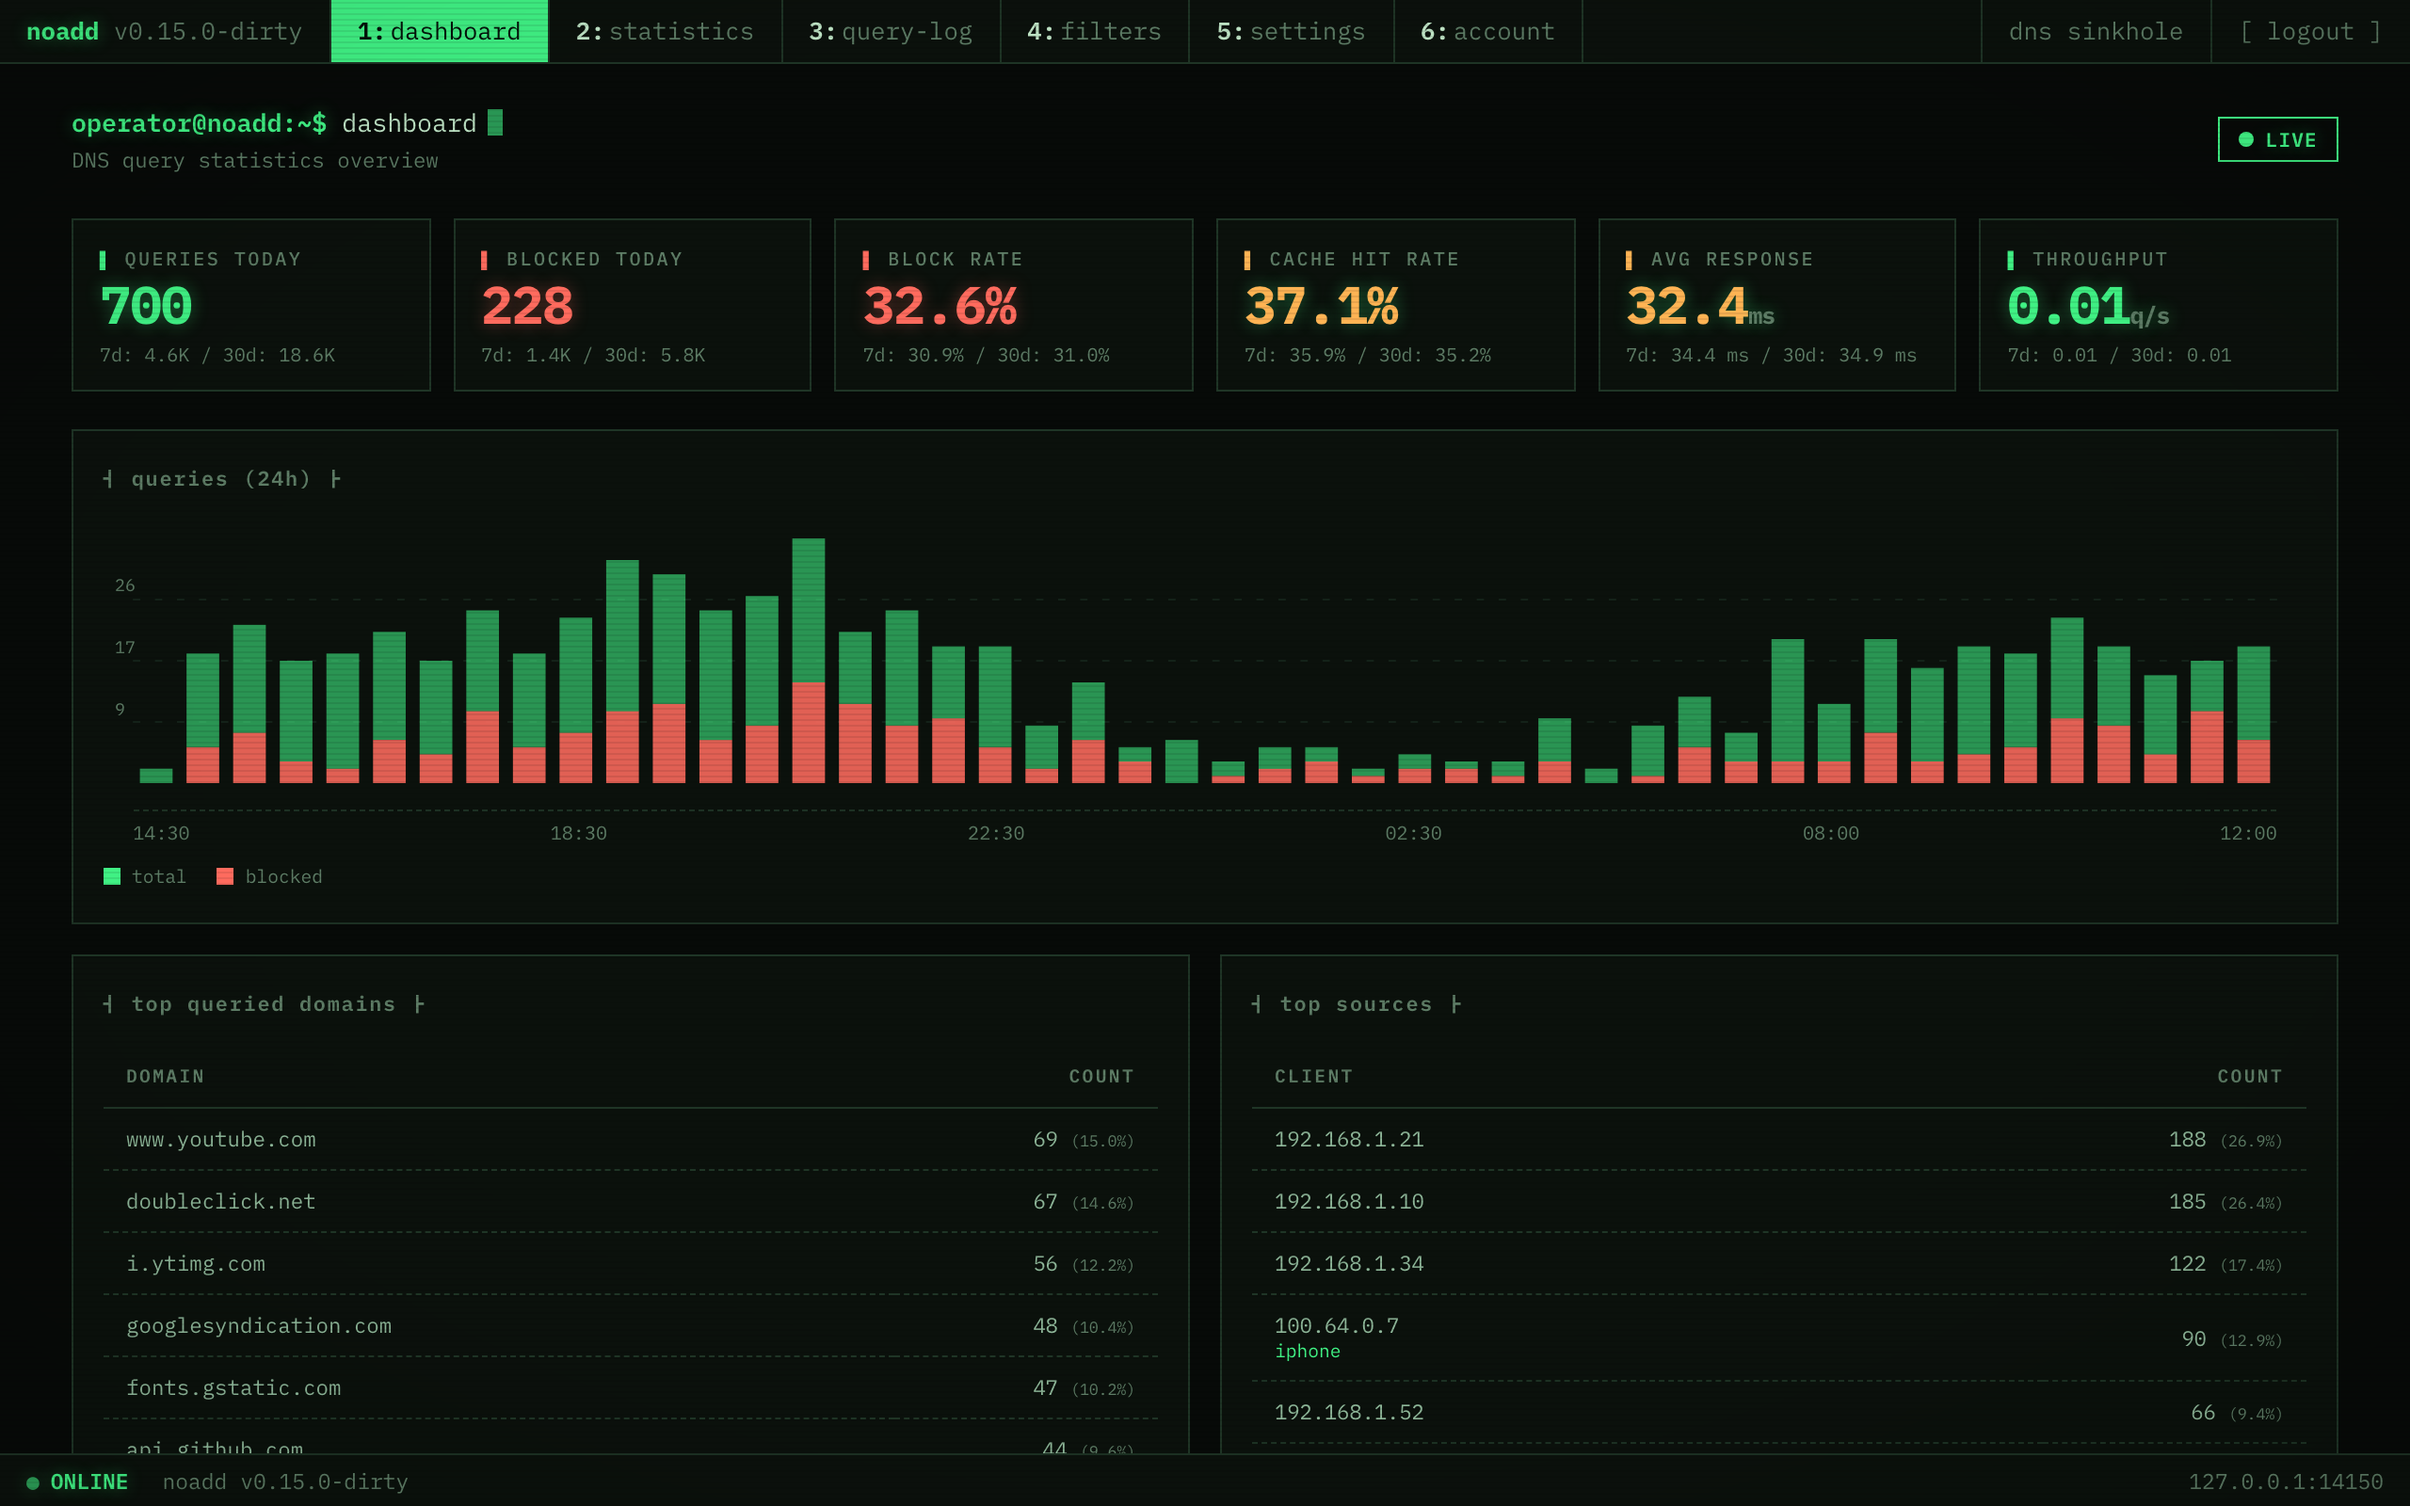
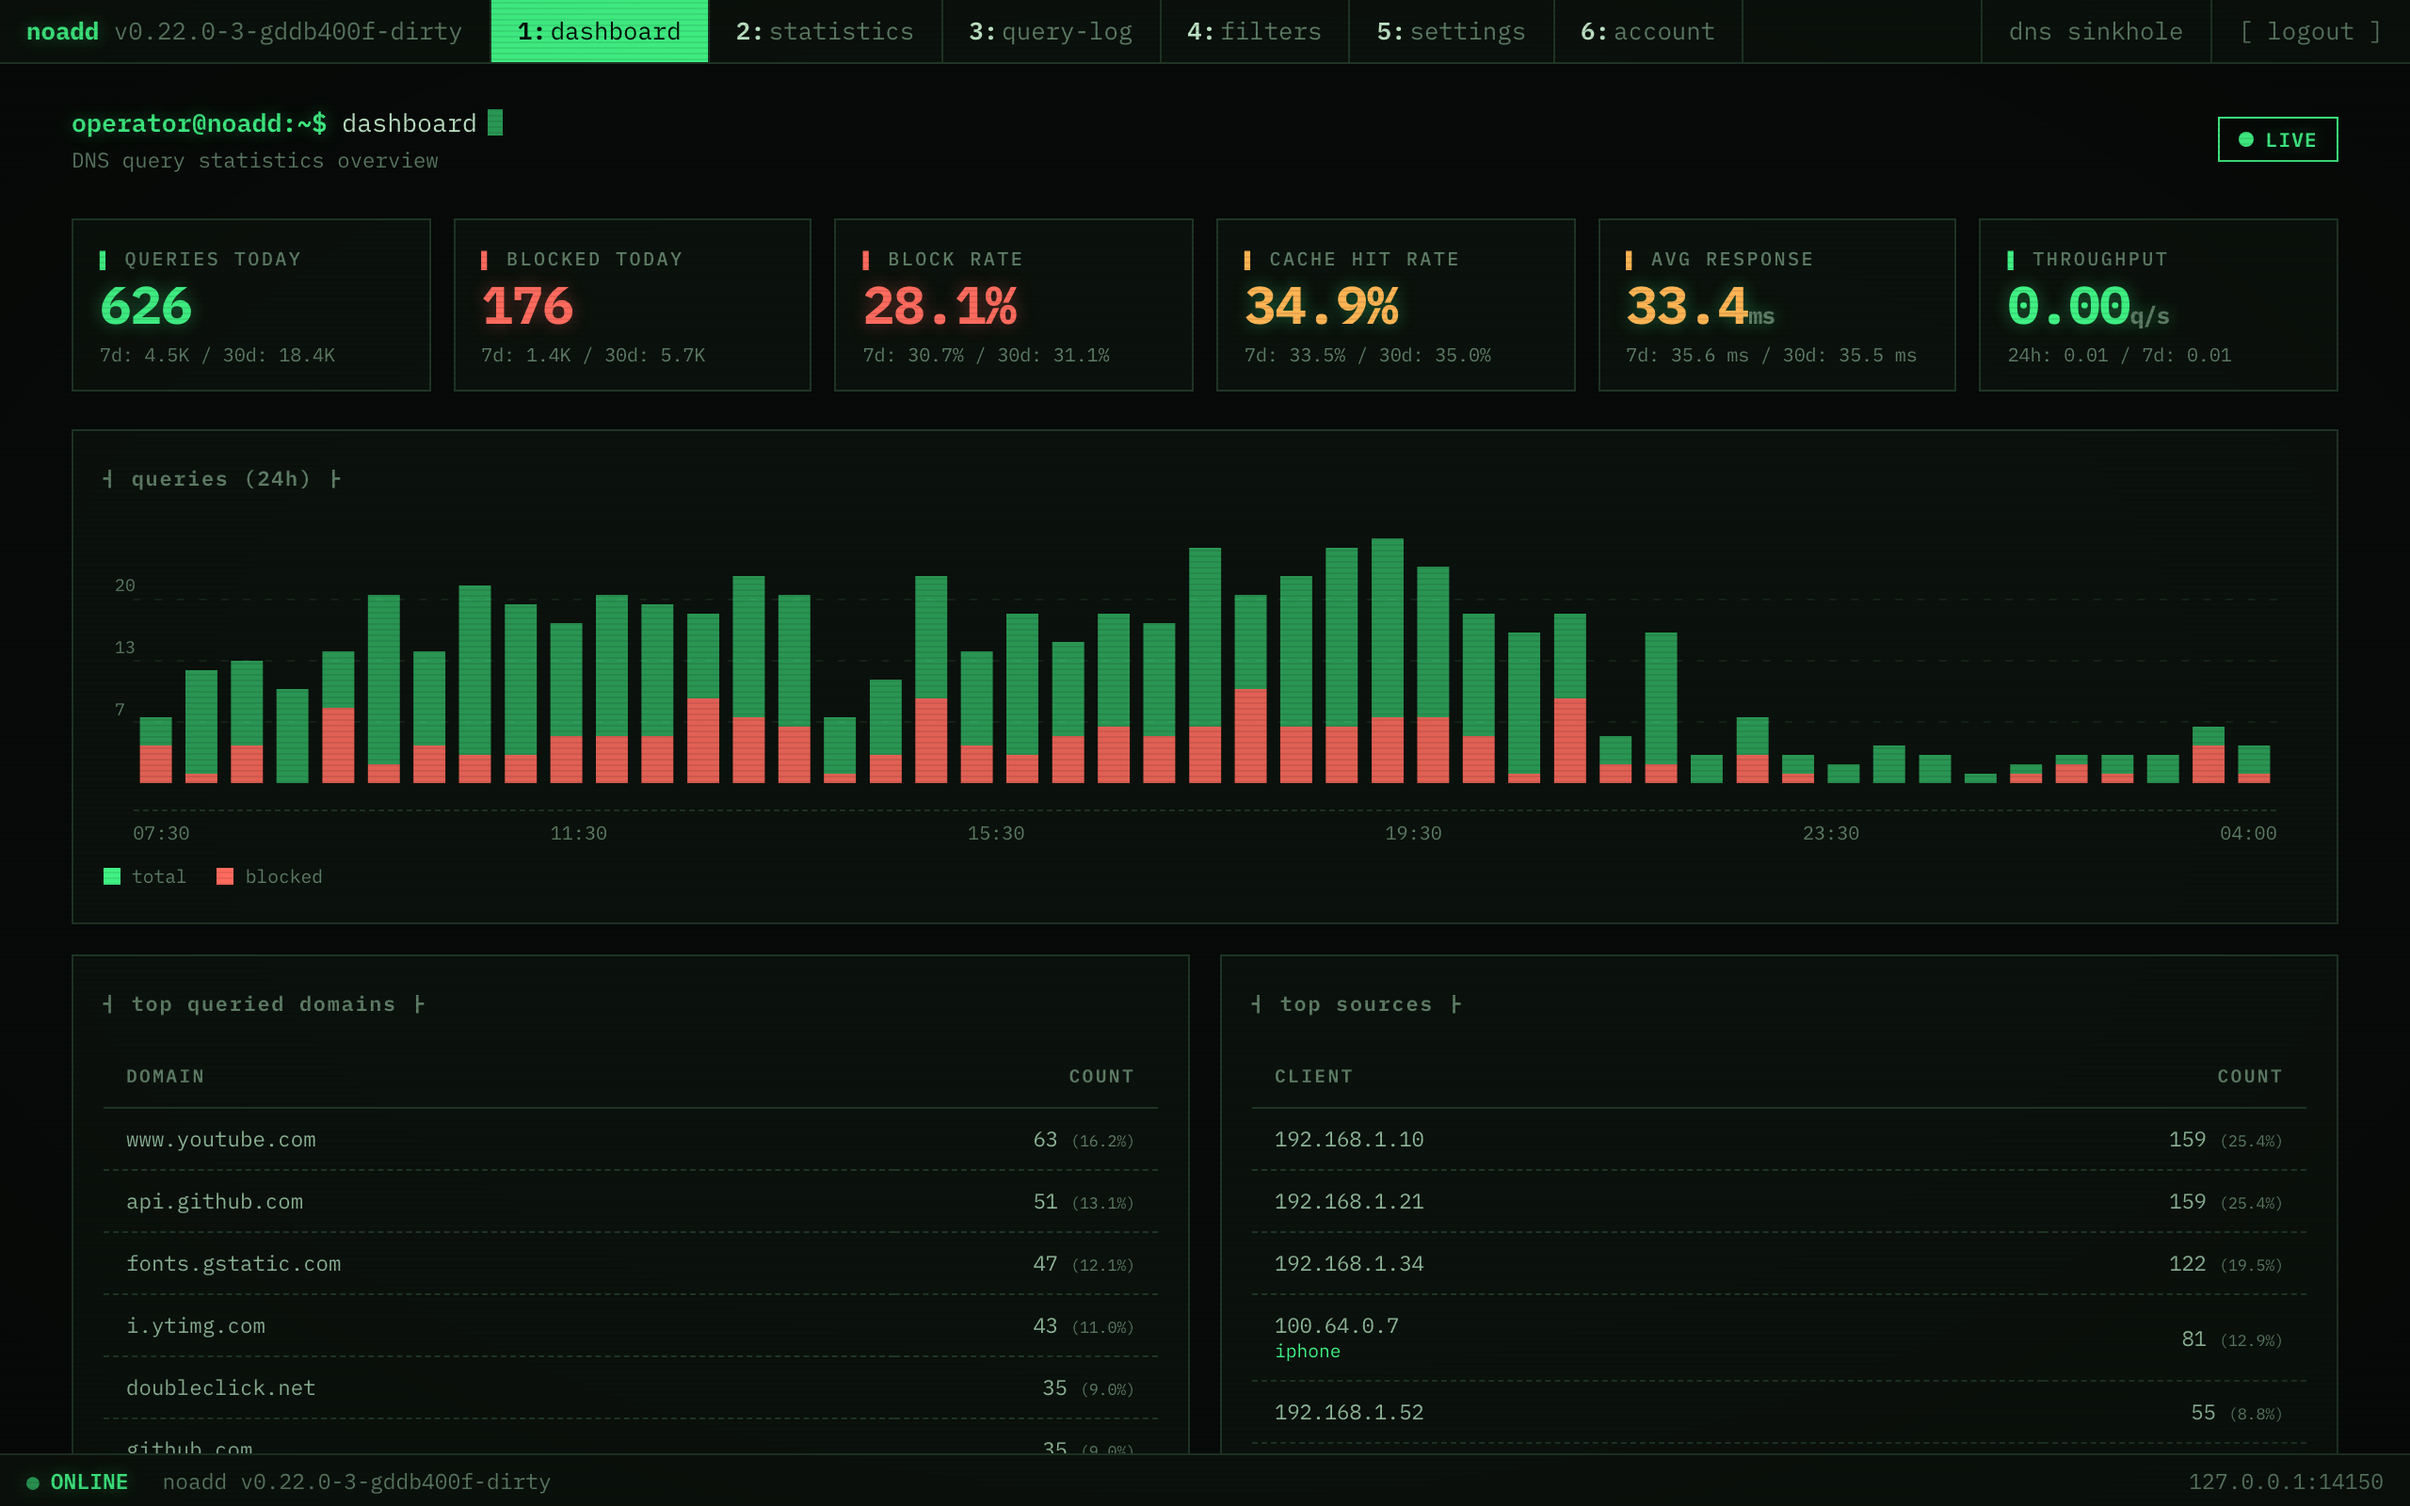
fix(admin-ui): show the live rate on the Throughput card
The card is labelled Throughput, is tinted like a live metric, and flashes
on change — all of which promise a current reading. It derived its value from
total_today / 86400, a 24-hour mean that a traffic spike cannot move. So the
flash animation only ever fired when the daily average drifted, and the card
answered a question nobody asked.

Meanwhile Summary.queries_1m — documented as "Queries handled in the last 60
seconds (a rough current-rate indicator)" and paid for with its own DB
round-trip on every summary refresh — had zero references in the admin UI.
The value was computed and thrown away.

Use it: the main value is now queries_1m / 60, and the 24h and 7d means moved
to the sub-line where averages belong.

The sub-line carries 24h and 7d only. Three entries wrapped to a second line
in the six-column desktop grid and made the card taller than the five beside
it (confirmed in the regenerated screenshot); of the three, the 30d mean is
the least informative for a rate, being smoothed almost flat.

Also stop recomputing today's block ratio in the browser. The UI derived it
from blocked_today/total_today while using the server's block_ratio_7d and
block_ratio_30d for the siblings, so one of the three tiles reached its
number by a different route than the other two.

Screenshots show 0.00 q/s because the seeded instance averages 0.01 q/s, so a
60-second window is usually empty. That is left as-is deliberately: seeding a
[…]

diff --git a/admin-ui/dist/index.html b/admin-ui/dist/index.html
@@ -3097,7 +3097,10 @@ class DashboardPage extends LiveElement {
     const pct = (v) => ((v || 0) * 100).toFixed(1);
     const ms = (v) => (v || 0).toFixed(1);
 
-    const ratio = s.total_today > 0 ? ((s.blocked_today / s.total_today) * 100).toFixed(1) : '0.0';
+    // Server-provided, like its 7d/30d siblings — recomputing it here from
+    // blocked_today/total_today produced the same number by a second route,
+    // so the two could drift apart on any change to how the server divides.
+    const ratio = pct(s.block_ratio_today);
     const ratio7d = pct(s.block_ratio_7d);
     const ratio30d = pct(s.block_ratio_30d);
     const cacheRate = pct(s.cache_hit_rate_today);
@@ -3107,11 +3110,19 @@ class DashboardPage extends LiveElement {
     const avgMs7d = ms(s.avg_response_ms_7d);
     const avgMs30d = ms(s.avg_response_ms_30d);
     const fmtQps = (v) => v >= 100 ? Math.round(v).toString() : v >= 10 ? v.toFixed(1) : v.toFixed(2);
+    // Main value is the live rate from the server's 60-second window. The card
+    // is labelled Throughput and flashes on change, both of which promise a
+    // current reading — a 24h mean cannot move on a traffic spike, so it went
+    // in the sub-line with the other averages.
+    // Sub-line carries 24h and 7d only. Three entries ("24h / 7d / 30d") wrap
+    // to a second line in the six-column desktop grid, which makes this card
+    // taller than the five beside it; the 30d mean is the least useful of the
+    // three for a rate anyway, since it is smoothed almost flat.
+    const qpsNow = fmtQps((s.queries_1m || 0) / 60);
     const qpsToday = fmtQps((s.total_today || 0) / 86400);
     const qps7d = fmtQps((s.total_7d || 0) / (7 * 86400));
-    const qps30d = fmtQps((s.total_30d || 0) / (30 * 86400));
 
-    const vals = [s.total_today, s.blocked_today, ratio, cacheRate, avgMs, qpsToday];
+    const vals = [s.total_today, s.blocked_today, ratio, cacheRate, avgMs, qpsNow];
     const prevVals = this._prevStats;
     this._prevStats = vals;
 
@@ -3122,7 +3133,7 @@ class DashboardPage extends LiveElement {
       <div class="stat-card" data-i="2" data-testid="stat-block-rate"><div class="stat-label">Block Rate</div><div class="stat-value red">${ratio}%</div><div class="stat-sub">7d: ${ratio7d}% / 30d: ${ratio30d}%</div></div>
       <div class="stat-card" data-i="3"><div class="stat-label">Cache Hit Rate</div><div class="stat-value text-orange">${cacheRate}%</div><div class="stat-sub">7d: ${cacheRate7d}% / 30d: ${cacheRate30d}%</div></div>
       <div class="stat-card" data-i="4"><div class="stat-label">Avg Response</div><div class="stat-value text-orange">${avgMs}<span style="font-size:0.9rem;color:var(--text-dim)">ms</span></div><div class="stat-sub">7d: ${avgMs7d} ms / 30d: ${avgMs30d} ms</div></div>
-      <div class="stat-card" data-i="5"><div class="stat-label">Throughput</div><div class="stat-value accent">${qpsToday}<span style="font-size:0.9rem;color:var(--text-dim)">q/s</span></div><div class="stat-sub">7d: ${qps7d} / 30d: ${qps30d}</div></div>`;
+      <div class="stat-card" data-i="5" data-testid="stat-throughput"><div class="stat-label">Throughput</div><div class="stat-value accent" data-testid="stat-throughput-value">${qpsNow}<span style="font-size:0.9rem;color:var(--text-dim)">q/s</span></div><div class="stat-sub">24h: ${qpsToday} / 7d: ${qps7d}</div></div>`;
 
     // Flash cards that changed (skip on first render)
     if (prevVals) {

diff --git a/e2e/steps/dashboard.steps.js b/e2e/steps/dashboard.steps.js
@@ -188,3 +188,31 @@ Then('no hashchange listener was left behind', async ({ page }) => {
 Then('exactly one app shell is mounted', async ({ page }) => {
   await expect(page.locator('app-shell')).toHaveCount(1);
 });
+
+// --- Throughput card ---
+// Driving the real 60-second window from a browser test would mean generating
+// live DNS traffic and racing the logger's flush, so the two rates are injected
+// instead. They are deliberately chosen to differ: 120/60 = 2.00 q/s live
+// against 86400/86400 = 1.00 q/s for the day, so a card still reading the
+// daily mean shows 1.00 and fails rather than coincidentally matching.
+Given(
+  'the summary reports {int} queries in the last minute and {int} today',
+  async ({ page }, queries1m, today) => {
+    await page.route('**/api/stats/summary', async (route) => {
+      const response = await route.fetch();
+      const body = await response.json();
+      await route.fulfill({
+        json: { ...body, queries_1m: queries1m, total_today: today },
+      });
+    });
+  },
+);
+
+// The slash is escaped because a bare `/` is alternation in a Cucumber expression.
+Then('the Throughput card reads {string} q\\/s', async ({ page }, value) => {
+  await expect(page.getByTestId('stat-throughput-value')).toHaveText(`${value}q/s`);
+});
+
+Then('the Throughput card shows a 24h mean of {string}', async ({ page }, value) => {
+  await expect(page.getByTestId('stat-throughput')).toContainText(`24h: ${value}`);
+});

diff --git a/tests/stats_db_test.rs b/tests/stats_db_test.rs
@@ -388,3 +388,36 @@ async fn cache_stats_multi_since_matches_single_window() {
     assert_eq!(d30.1, single_30d.1);
     assert!((d30.2 - single_30d.2).abs() < 1e-9);
 }
+
+#[tokio::test]
+async fn compute_summary_queries_1m_counts_only_the_last_60_seconds() {
+    use noadd::admin::stats::compute_summary;
+
+    // The dashboard's Throughput card divides this by 60 and presents it as the
+    // current rate, so the window boundary is user-visible: anything older than
+    // 60s leaking in would inflate the live reading with historical traffic.
+    let db = test_db().await;
+    let now: i64 = 40 * 86400;
+
+    db.insert_query_logs(&[
+        // Inside the 60s window.
+        entry(now - 5, "A", false, false, Some("NOERROR")),
+        entry(now - 59, "A", true, false, Some("NXDOMAIN")),
+        // Outside it, but still inside the 24h window.
+        entry(now - 61, "A", false, false, Some("NOERROR")),
+        entry(now - 3600, "A", false, false, Some("NOERROR")),
+    ])
+    .await
+    .unwrap();
+
+    let s = compute_summary(&db, now).await.unwrap();
+
+    assert_eq!(
+        s.queries_1m, 2,
+        "only the two rows inside the 60s window should count toward the live rate"
+    );
+    assert_eq!(
+        s.total_today, 4,
+        "the 24h window should still see every row, including those the 1m window excludes"
+    );
+}
